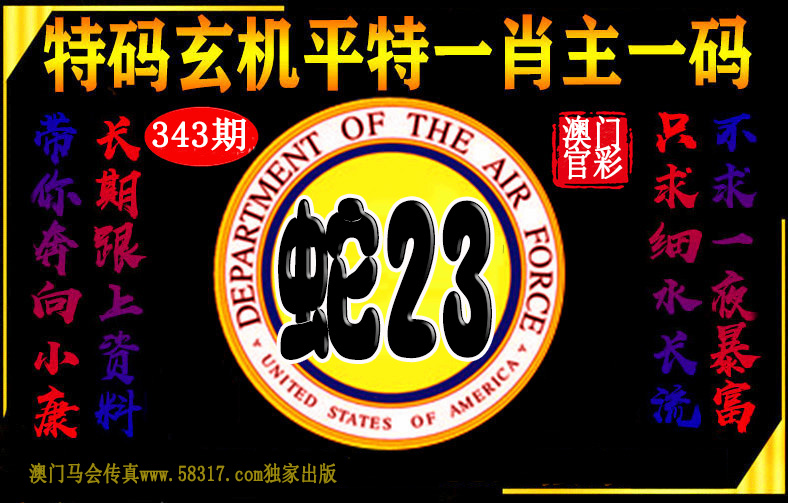
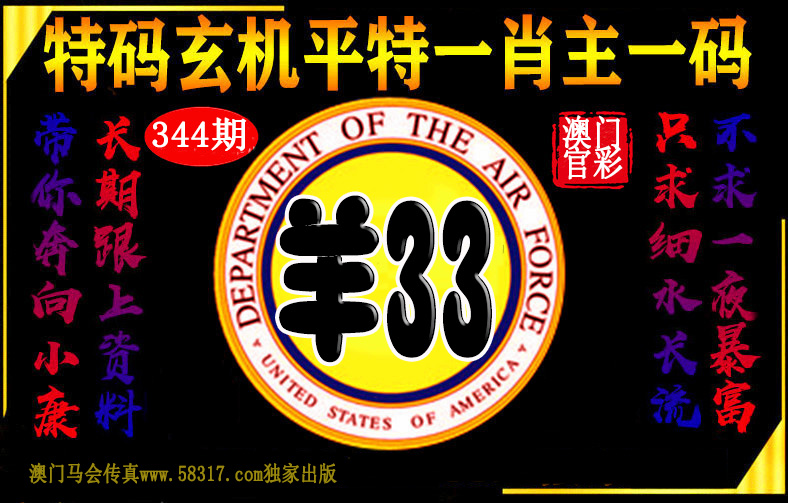
Update:  2023.12.10 13:21:45

Changed region(s): [[0.335, 0.3579, 0.5787, 0.7455], [0.2437, 0.2386, 0.2741, 0.2982], [0.5178, 0.3877, 0.5482, 0.4175]]

diff --git a/Script/Src/xjw/杀两肖图.js b/Script/Src/xjw/杀两肖图.js
@@ -65,8 +65,8 @@ document.writeln("					<td height=\'40\' style=\'box-sizing: border-box;\'>");
 document.writeln("			<p align=\'center\' style=\'box-sizing: border-box; padding: 0px; margin: 0px;\'>");
 document.writeln("			<font size=\'4\' style=\'margin: 0px; padding: 0px;\'>");
 document.writeln("			344期玄机网禁两肖<font color=\'#FF0000\'>【猪狗】</font>特开<font color=\'#0000FF\'>？00</font>准<br>");
-document.writeln("			344期澳门杀两肖图<font color=\'#FF0000\'>【更新】</font>特开<font color=\'#0000FF\'>？00</font>准<br>");
-document.writeln("			344期澳门图库禁肖<font color=\'#FF0000\'>【更新】</font>特开<font color=\'#0000FF\'>？00</font>准</font></font></p></td>");
+document.writeln("			344期澳门杀两肖图<font color=\'#FF0000\'>【马龙】</font>特开<font color=\'#0000FF\'>？00</font>准<br>");
+document.writeln("			344期澳门图库禁肖<font color=\'#FF0000\'>【猪虎】</font>特开<font color=\'#0000FF\'>？00</font>准</font></font></p></td>");
 document.writeln("		</tr>");
 document.writeln("<!--推广-->");
 document.writeln("				<tr style=\'box-sizing: border-box;\'>");
